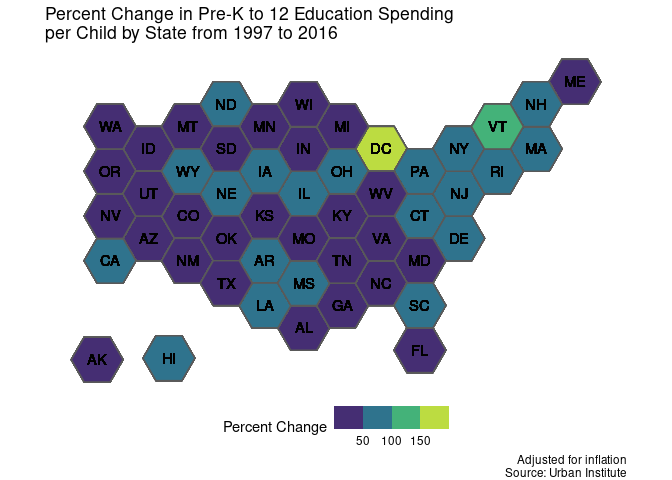
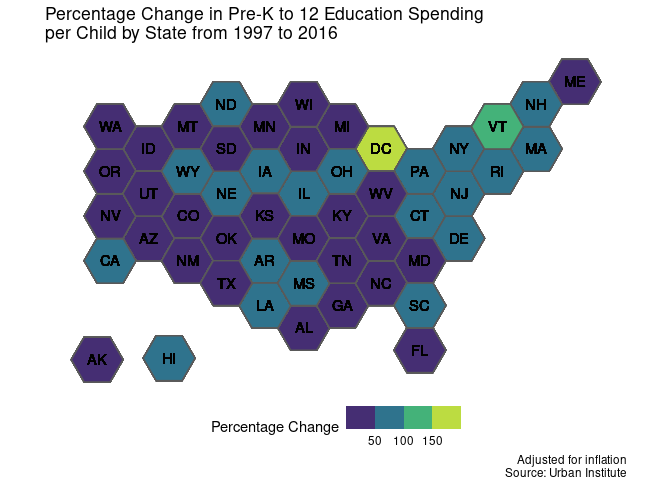
percentage <- percent

Changed region(s): [[0.1562, 0.0, 0.7188, 0.0625], [0.3125, 0.8438, 0.6875, 0.9375]]

diff --git a/content/post/2020-09-15-tidy-kids.html b/content/post/2020-09-15-tidy-kids.html
@@ -10,4 +10,4 @@ tags: []
 
 
 <p><img src="/post/2020-09-15-tidy-kids_files/map-1.png" /></p>
-<p>This week’s <a href="https://github.com/rfordatascience/tidytuesday/blob/275a2313a8d8536cb6d43d9fcb2ee232a792b22c/data/2020/2020-09-15/readme.md">Tidy Tuesday</a> takes a look the Urban Institute’s data on public spending on children from 1997 to 2016. I decided to narrow my focus to pre-k to 12 education spending and to look at the percent change over this period in per-child spending, adjusted for inflation. This information would probably be best suited to a bar plot, but I wanted to learn how to make hex tile maps! Check out my <a href="https://github.com/jamesphare/tidytuesday/blob/a17ce5299121e0eca98e5a030b17d9e7ac09a45c/20200915/kids.md">source code on Github</a>.</p>
+<p>This week’s <a href="https://github.com/rfordatascience/tidytuesday/blob/275a2313a8d8536cb6d43d9fcb2ee232a792b22c/data/2020/2020-09-15/readme.md">Tidy Tuesday</a> takes a look the Urban Institute’s data on public spending on children from 1997 to 2016. I decided to narrow my focus to pre-k to 12 education spending and to look at the percentage change over this period in per-child spending, adjusted for inflation. This information would probably be best suited to a bar plot, but I wanted to learn how to make hex tile maps! Check out my <a href="https://github.com/jamesphare/tidytuesday/blob/a17ce5299121e0eca98e5a030b17d9e7ac09a45c/20200915/kids.md">source code on Github</a>.</p>
